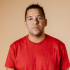
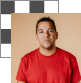
update on speaker images

diff --git a/css/home.css b/css/home.css
@@ -322,7 +322,6 @@ body {
 .speaker-img {
   width: 107px;
   height: 107px;
-  border-radius: 10px;
 }
 
 .speaker-intro {
@@ -490,6 +489,7 @@ body {
     position: fixed;
     width: 100%;
   }
+
   .hamburger,
   .program-container button,
   .more-btn,
@@ -539,6 +539,7 @@ body {
     justify-content: center;
     align-items: center;
     gap: 30px;
+
     /* margin-top: 100px; */
   }
 
@@ -631,6 +632,7 @@ body {
   .program-card:hover {
     border: 3px solid var(--color-lighter-gray);
   }
+
   .lecture-text {
     flex-direction: column;
   }

diff --git a/css/about.css b/css/about.css
@@ -247,11 +247,9 @@
   }
 
   .logo {
-    margin-top: 30px;
     padding: 20px 0;
     border: 1px solid var(--color-light-gray);
     width: 20%;
-
     margin: auto;
   }
 
